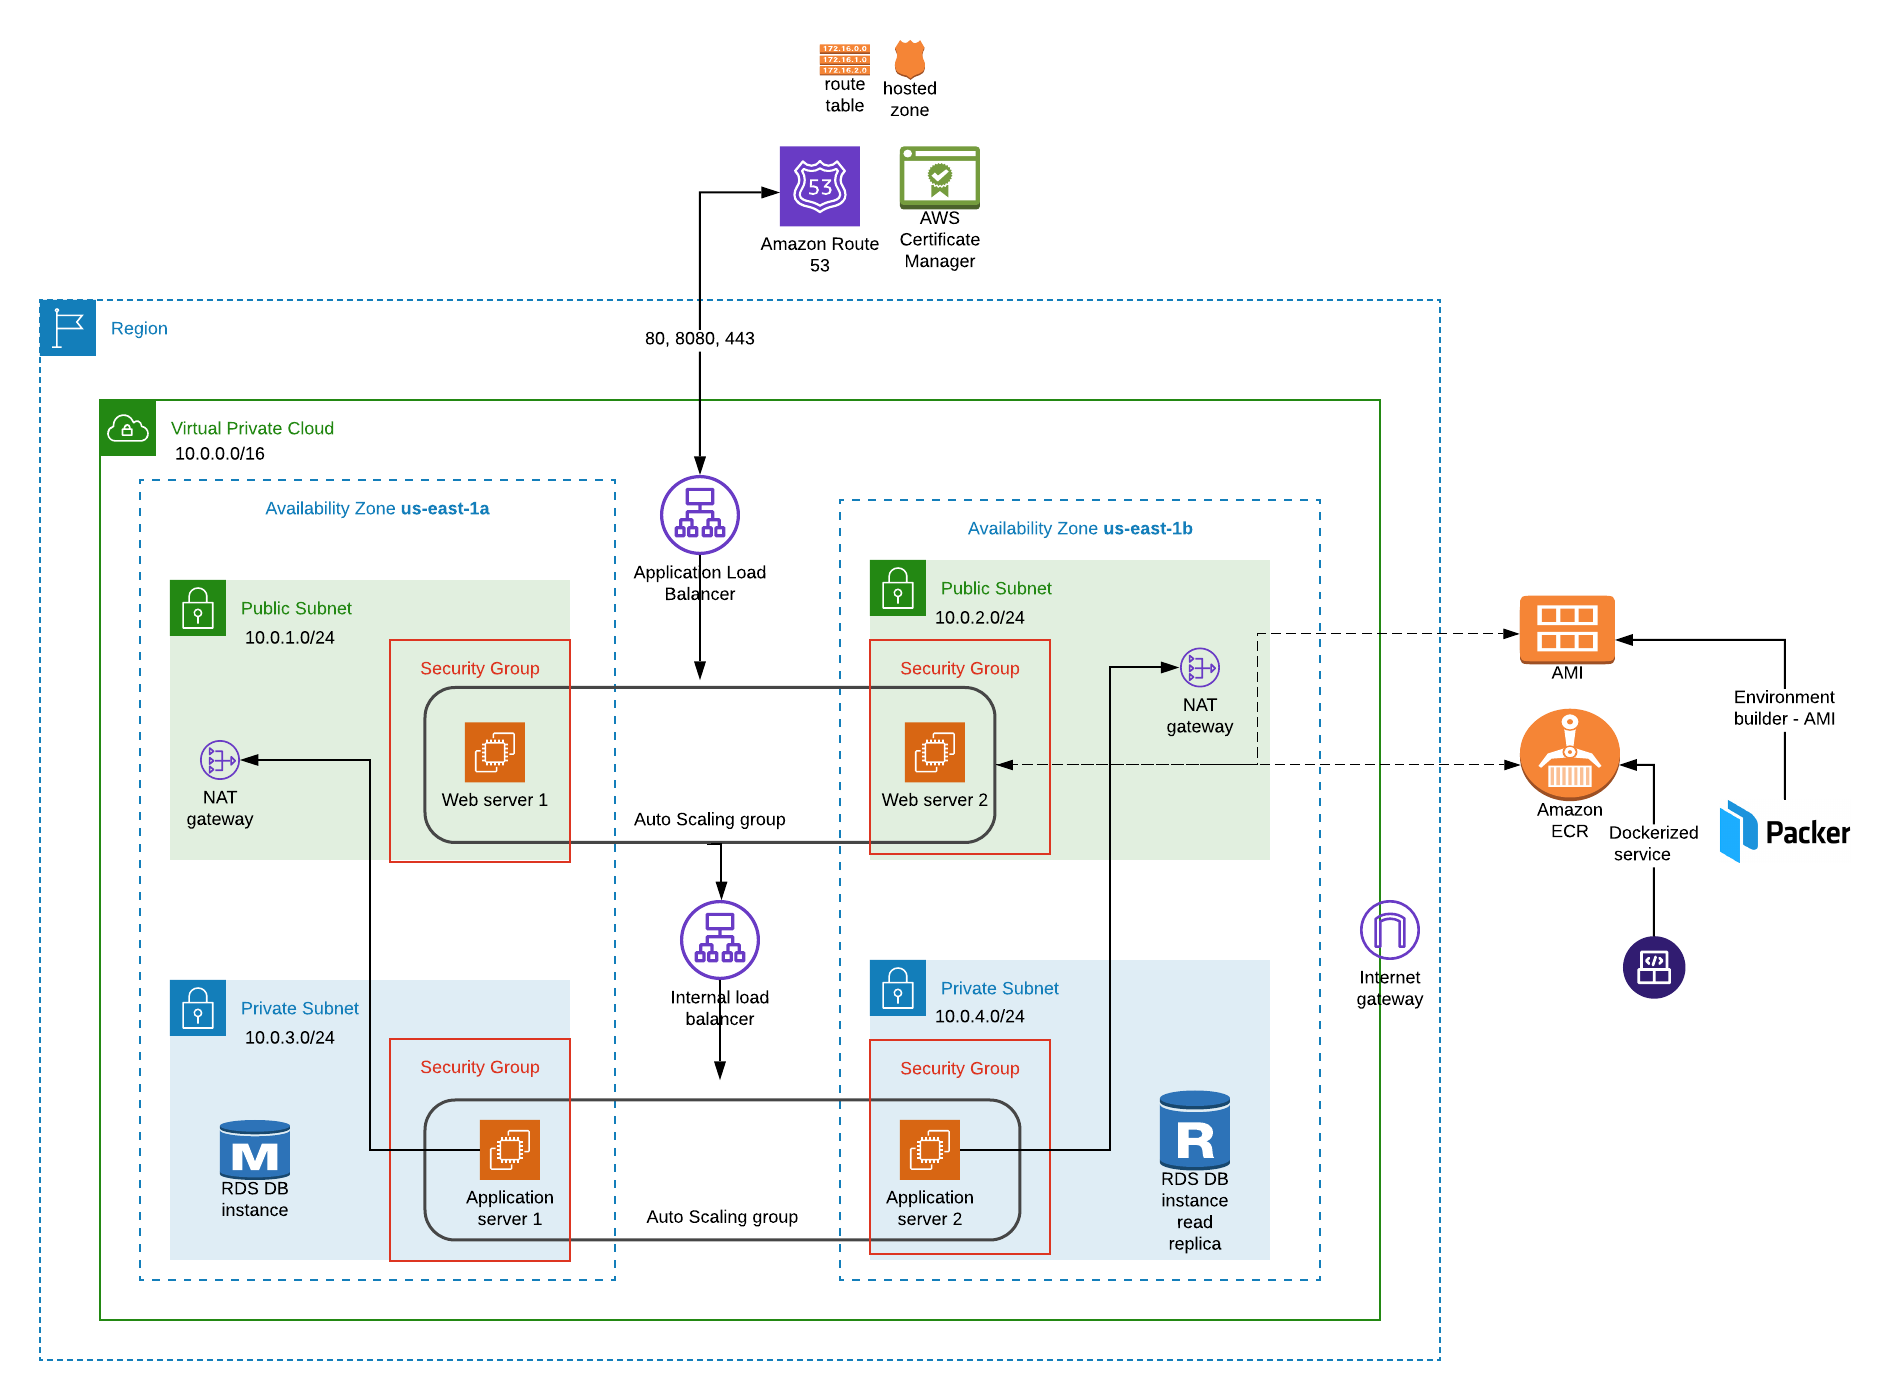
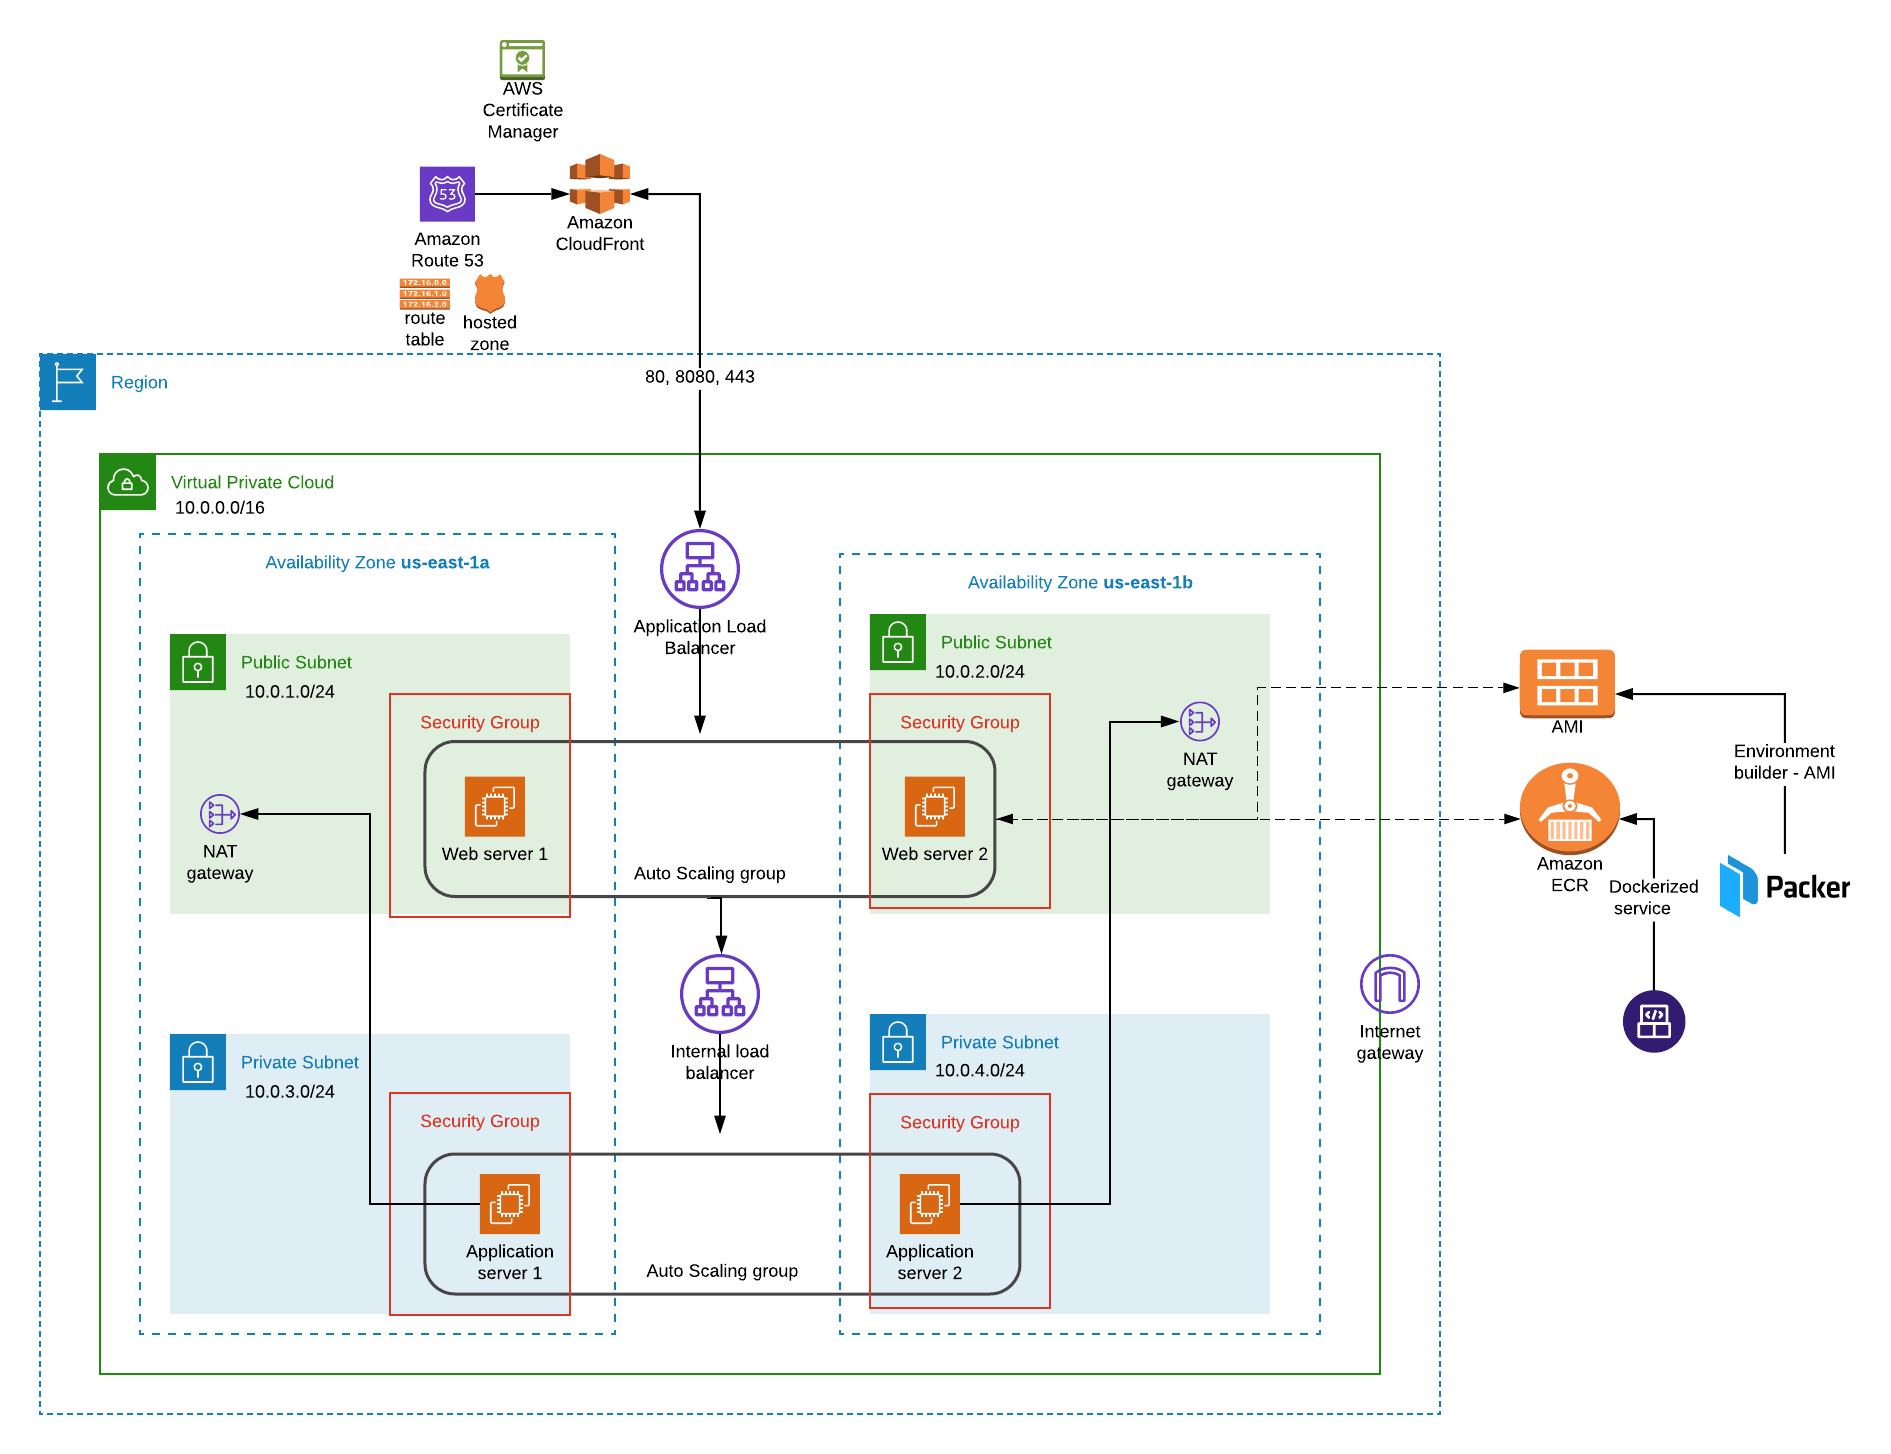
Updated readme and introduce cloudfront
Updated readme and introduce cloudfront

diff --git a/tform/microservices-pub-pvt-subnets/README.md b/tform/microservices-pub-pvt-subnets/README.md
@@ -1,9 +1,16 @@
-work in progress. 
+.. work in progress ..
+
+An overview is below. 
+![here](overview.png)
+
+## Get started
+1. Build a service or app and dockerize it
+2. Use packer infra to build environment supporting the docker container. 
+3. Use the AMI from #2 in the infra-structure after setting right variables in variables.tf
+4. Pre-provision a domain and ssl certificate in the aws environment. 
 
 The example helps with .. 
 - a single service on front end side with auto scale properties on CPU load. 
 - packer build process to create a desired image for autoscale group to pick up
 - a sample rust project to act as a service.
 - [todo] a sample rust project to act as a db app utility.
-
-An overview is [here](overview.png)
